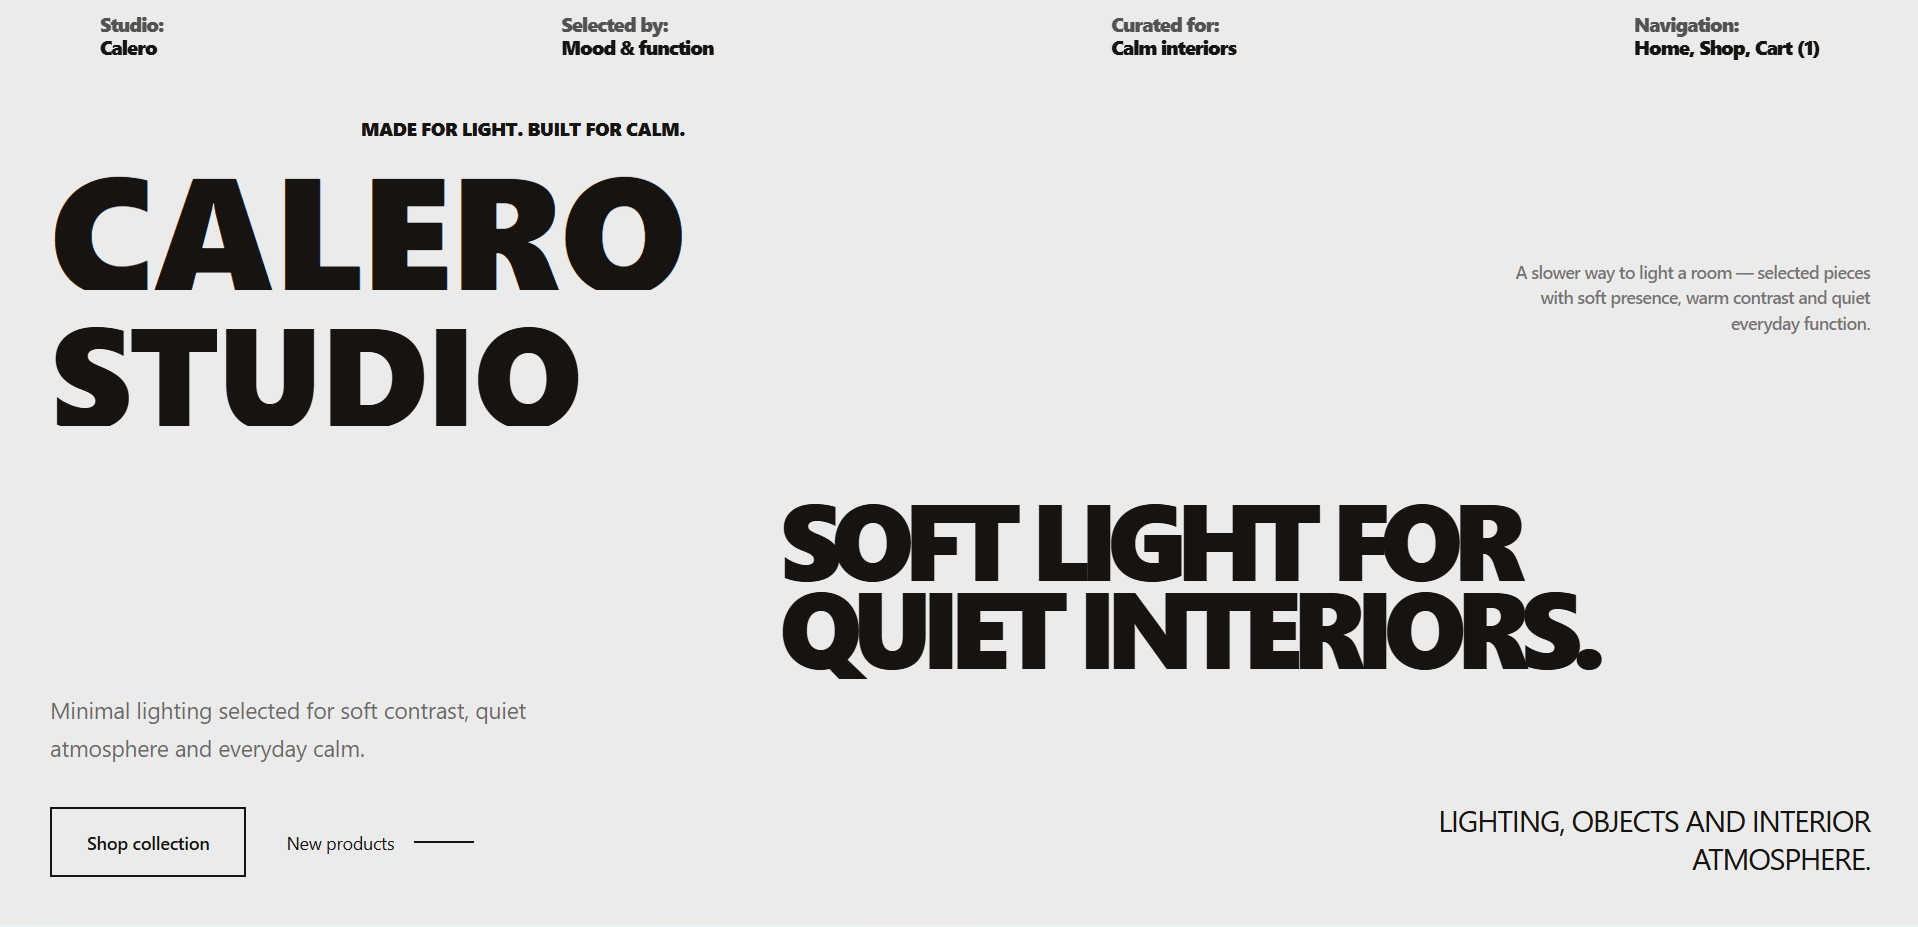
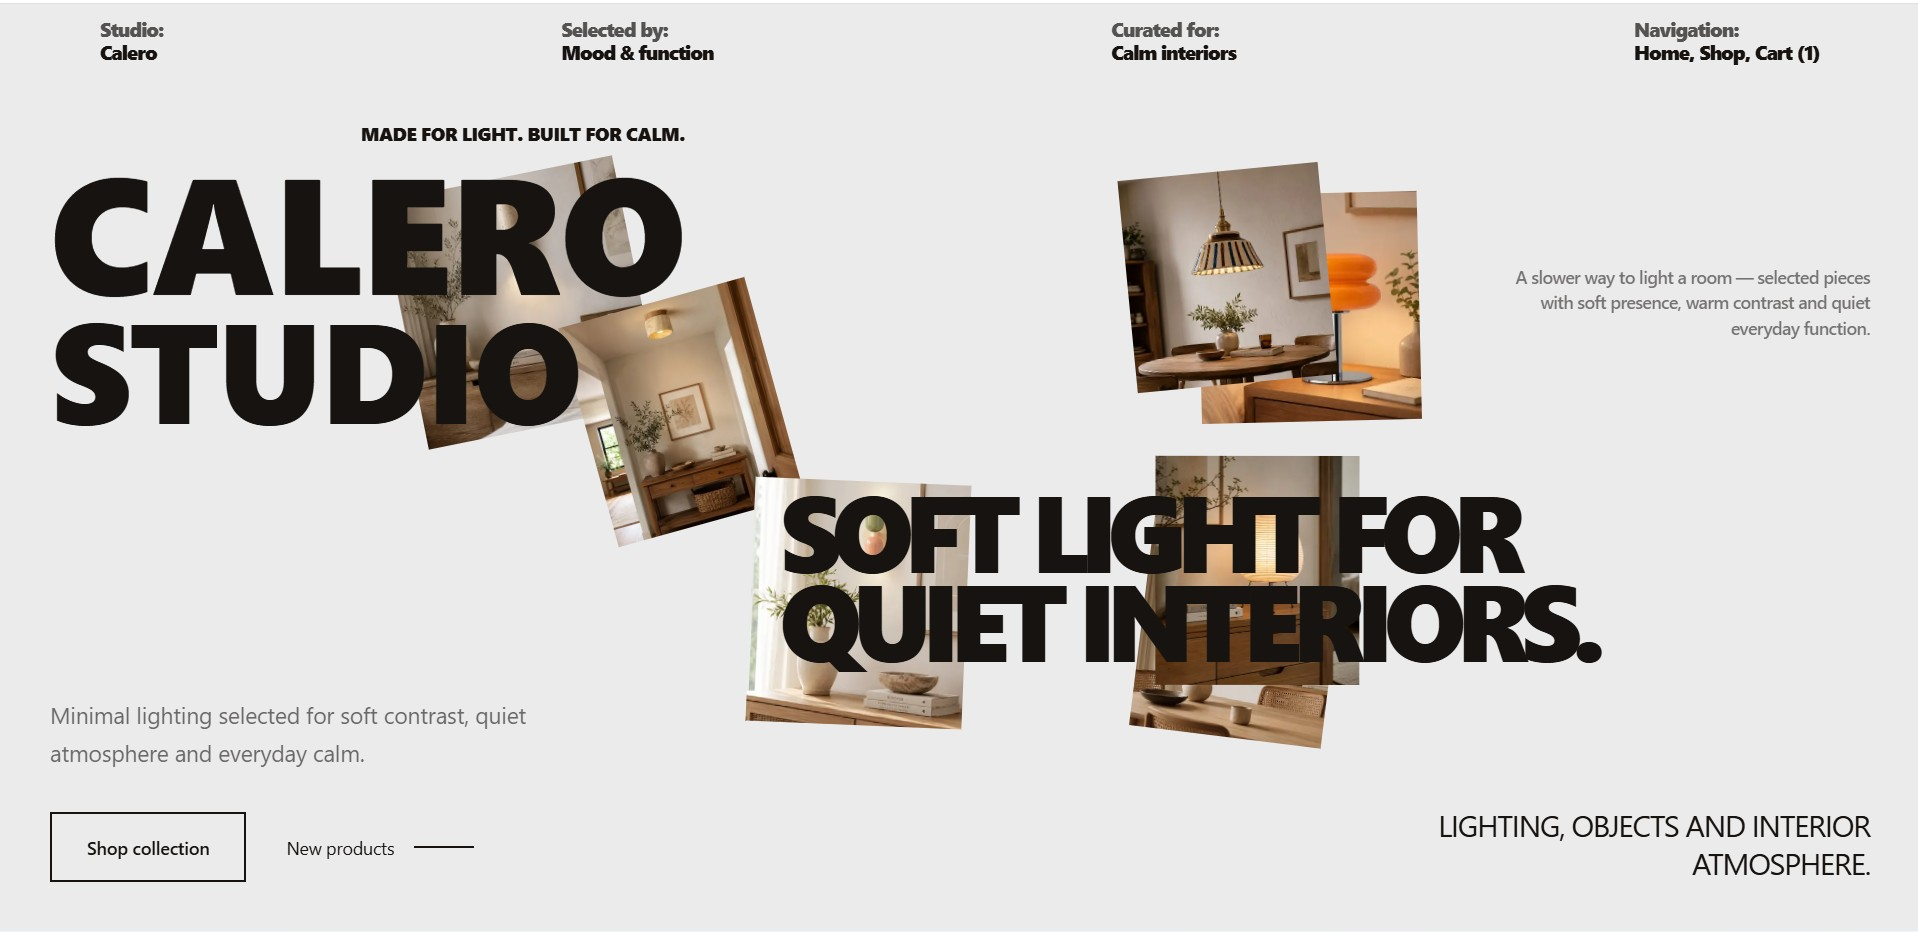
:

diff --git a/src/components/ProjectsClient.tsx b/src/components/ProjectsClient.tsx
@@ -11,8 +11,8 @@ const ProjectsClient = () => {
   const projects = [
     {
       title: "Calero Studio",
-      src: "cs-1.jpg",
-      src2: "cs-2.jpg",
+      src: "calero-3.jpg",
+      src2: "calero-2.jpg",
       src3: "cals-3.jpg",
       src4: "cals-4.jpg",
       link: "https://www.calero.studio/",
@@ -22,8 +22,8 @@ const ProjectsClient = () => {
     },
     {
       title: "Petsaco",
-      src: "pets-1.jpg",
-      src2: "pets-2.jpg",
+      src: "petsaco-1.jpg",
+      src2: "petsaco-2.jpg",
       src3: "petsaco3.png",
       src4: "petsaco4.png",
       link: "https://petsaco.com",